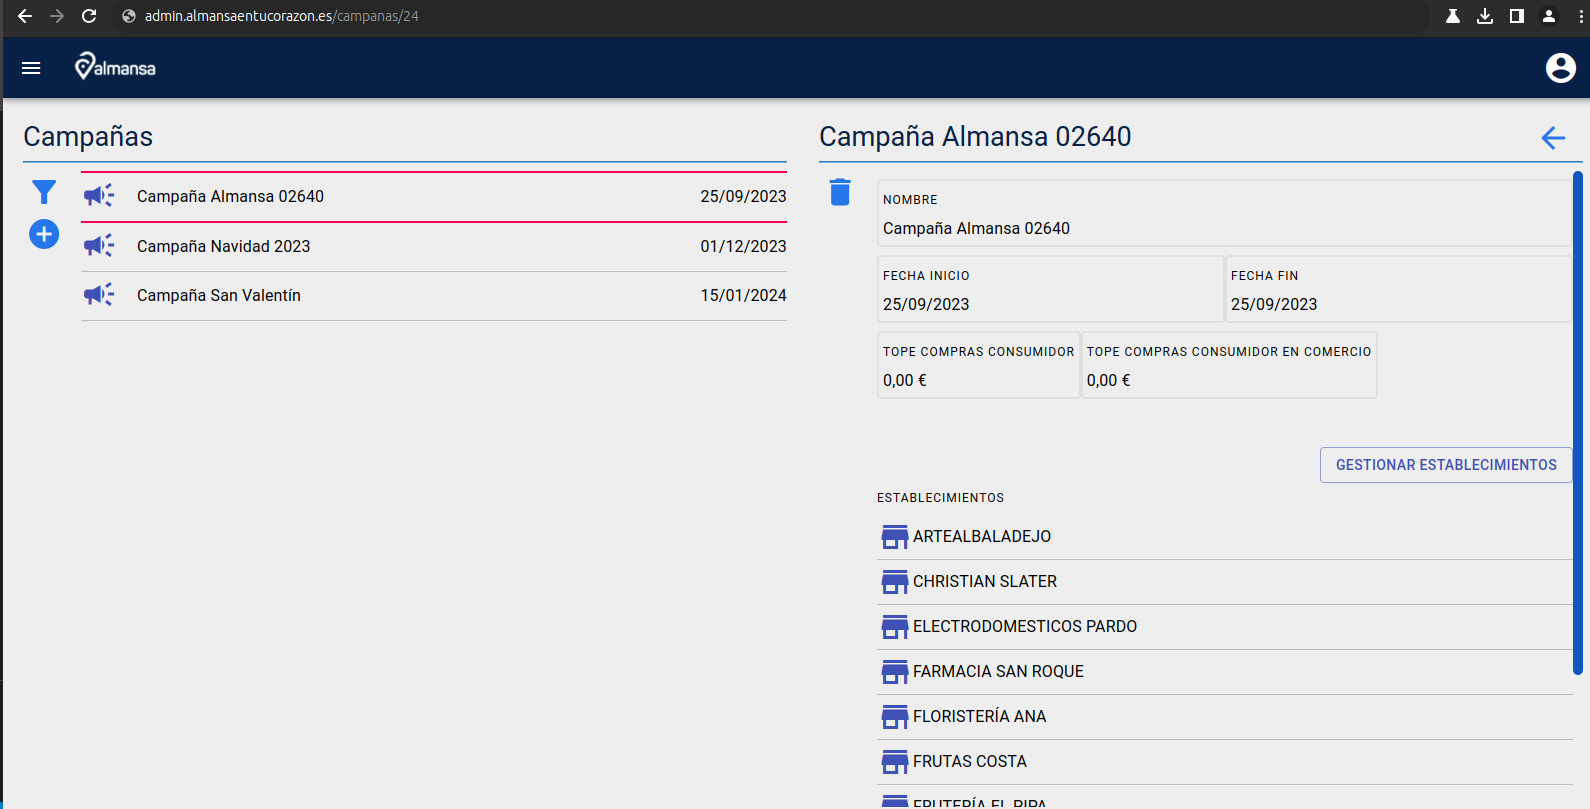
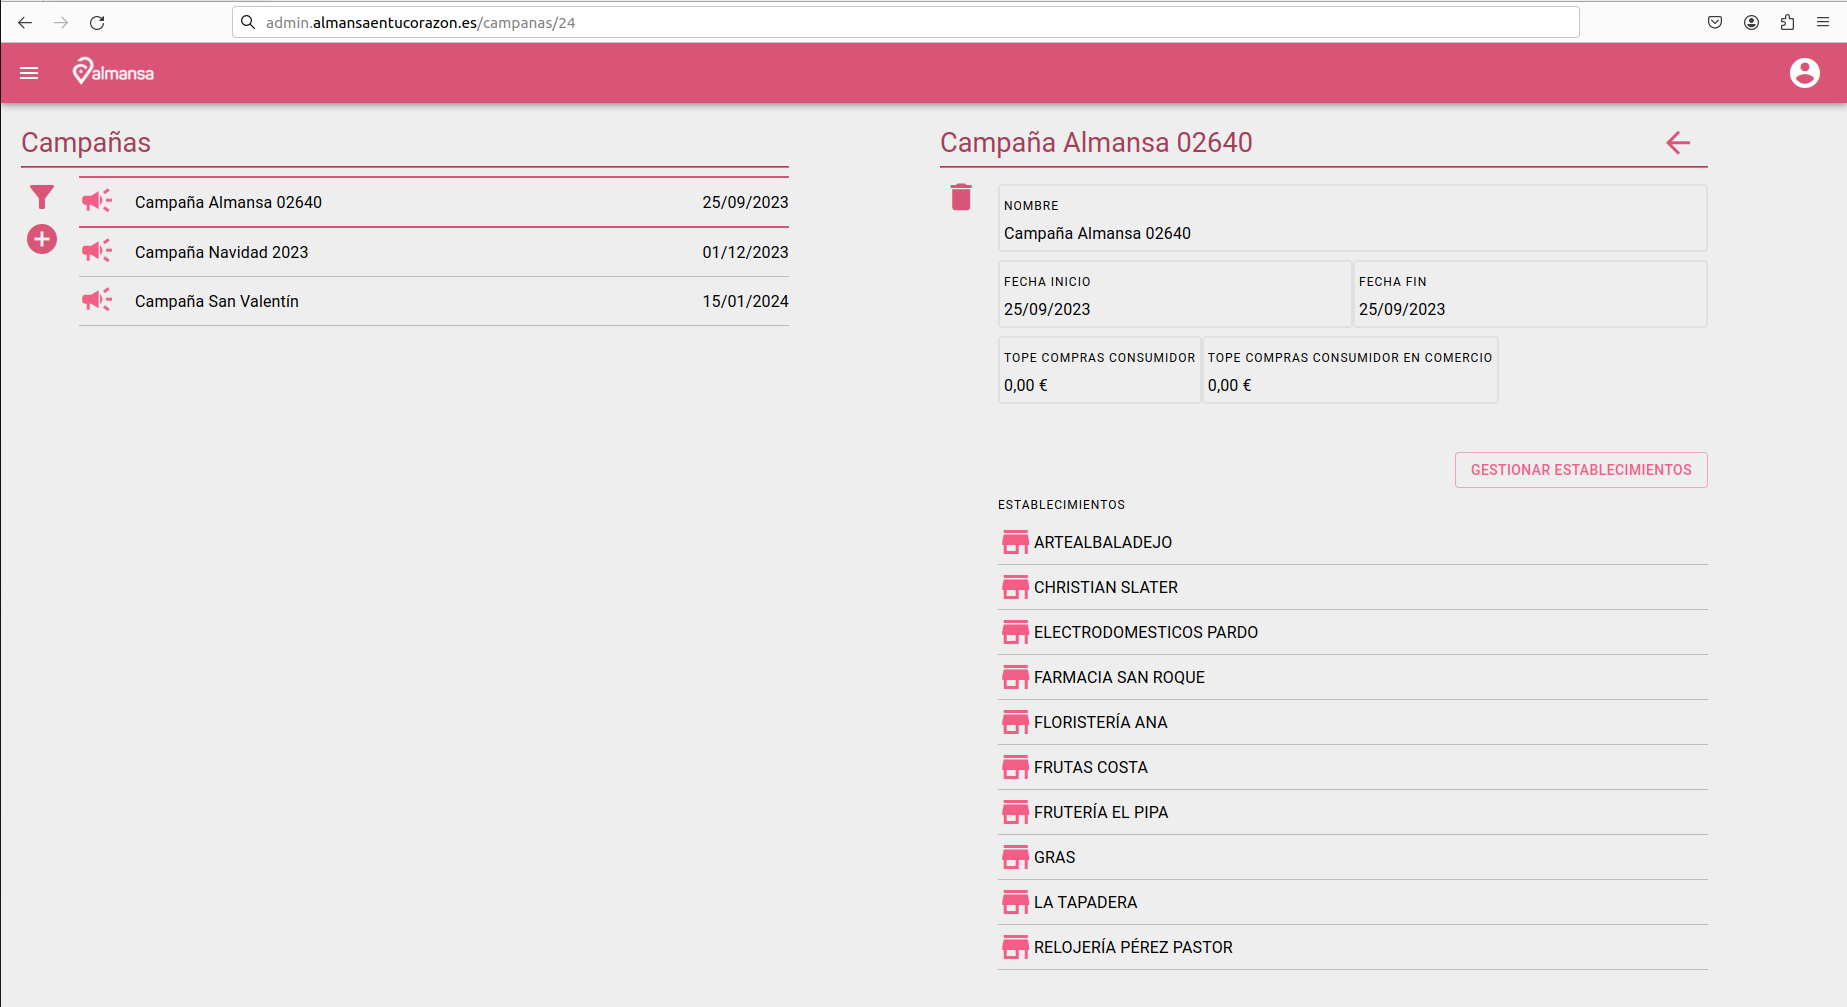
refact(comalma): Actualizadas imagenes con nuevo theme.

diff --git a/comalma/administracion/comercios.md b/comalma/administracion/comercios.md
@@ -9,6 +9,6 @@ Pantalla con lista de comercios, los datos de los comercios son editables y posi
 ![Alt text](../images/nuevocomercio.png)
 
 
-Pulsando botón + abre formulario para dar de alta un nuevo comercio.
+Pulsando botón + abre formulario para dar de alta un nuevo comercio. Se utilizará el dato **cif/nif** como contraseña para la cuenta de uso de la aplicación de establecimientos.
 
 [Volver al Índice](../index.md)

diff --git a/comalma/usuarios/comprasusuarios.md b/comalma/usuarios/comprasusuarios.md
@@ -4,4 +4,8 @@
 
 Los clientes, después de iniciar sesión podrán consultar sus compras realizadas en los diferentes comercios, se muestra información del comercio, la fecha y el importe de la compra.
 
+Si se clica un registro lo veremos en detall, puediendo volver al listado general clicando en el botón de flecha atrás.
+
+![Alt text](../images/micompra.png)
+
 [Volver al Índice](../index.md)

diff --git a/comalma/index.md b/comalma/index.md
@@ -4,7 +4,7 @@
 
 ![Alt text](./images/homeadmin.png)
 
-  - [Gestión de comercios](./administracion/comercios.md)
+  - [Gestión de establecimientos](./administracion/comercios.md)
   - [Gestión campañas](./administracion/campanas.md)
   - [Gestión de listas](./administracion/listas.md)
 

diff --git a/comalma/comercios/nuevaventa.md b/comalma/comercios/nuevaventa.md
@@ -1,6 +1,6 @@
 # Nueva venta
 
-![Alt text](../images/nuevacompra.png)
+![Alt text](../images/nuevaventa.png)
 
 La aplicación de comercios después de logear como cliente vemos directamente el formulario de nueva venta, con fecha de hoy por defecto.
 
